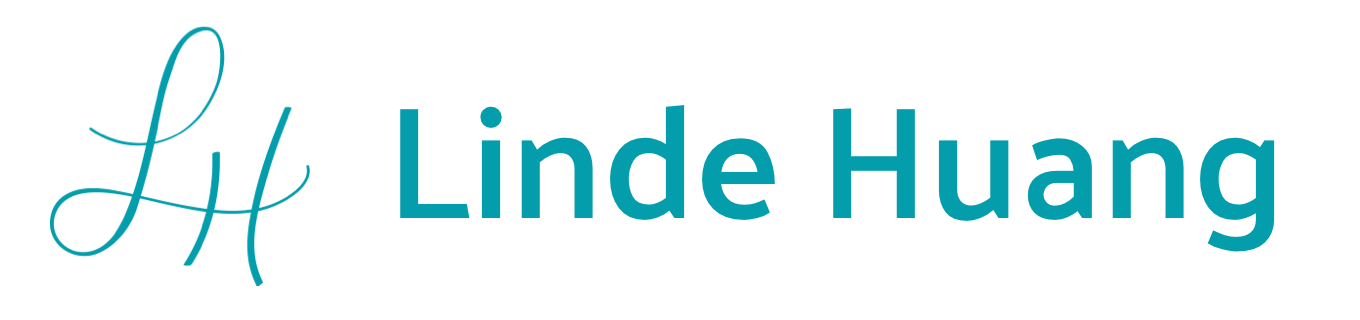
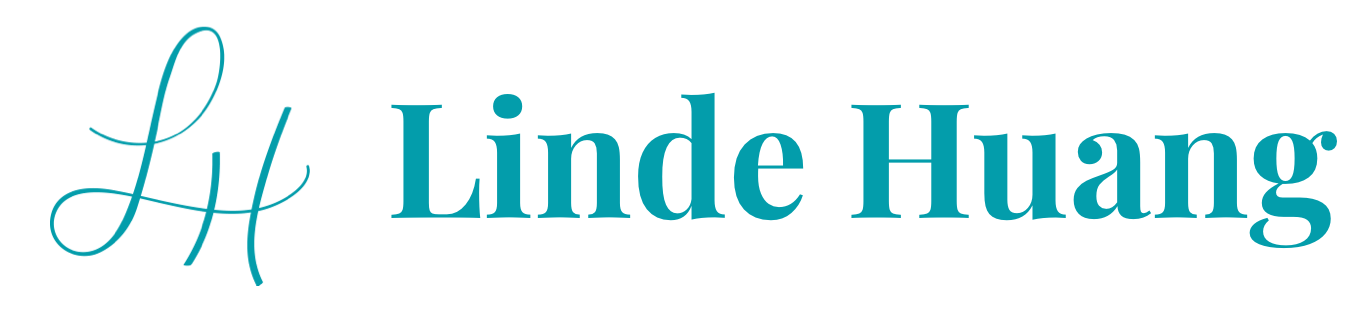
updating branding and font color

Changed region(s): [[0.2779, 0.2812, 0.9882, 0.7812]]

diff --git a/assets/css/style.css b/assets/css/style.css
@@ -330,6 +330,7 @@ body {
 p {
   margin: 0 0 1em 0;
   line-height: 1.8em;
+  color: var(--dark-grey-color);
 }
 
 p a {
@@ -355,6 +356,7 @@ ul, ol {
 
 ul li, ol li {
   margin-bottom: .6em;
+  color: var(--dark-grey-color);
 }
 
 .centered {
